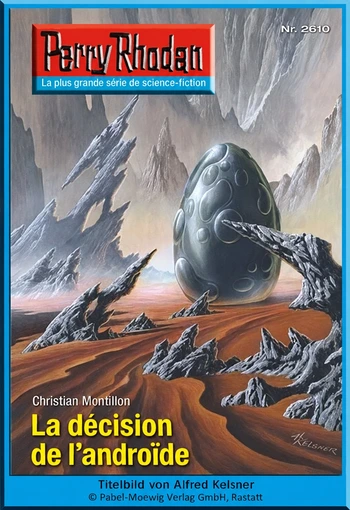
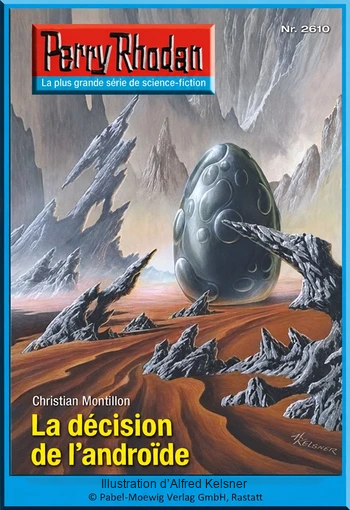
fix: translate illustrator credits on covers 2610-2619

Changed region(s): [[0.2857, 0.9412, 0.7429, 0.9706]]

diff --git a/src/content/chapitres/de-2610.md b/src/content/chapitres/de-2610.md
@@ -4,7 +4,7 @@ cycleNumber: 37
 chapterNumber: 2610
 type: translation
 originalTitle: "Die Entscheidung des Androiden"
-cover: "/images/covers/de-2610.webp?v=20261116-2610-fr"
+cover: "/images/covers/de-2610.webp?v=20261118-credits-fr"
 auteur: "Christian Montillon"
 parution: "2011-09-09"
 statut: traduit

diff --git a/src/content/chapitres/de-2613.md b/src/content/chapitres/de-2613.md
@@ -4,7 +4,7 @@ cycleNumber: 37
 chapterNumber: 2613
 type: translation
 originalTitle: "Agent der Superintelligenz"
-cover: "/images/covers/de-2613.webp?v=20261116-2613-fr"
+cover: "/images/covers/de-2613.webp?v=20261118-credits-fr"
 auteur: "Michael Marcus Thurner"
 parution: "2011-09-30"
 statut: traduit

diff --git a/src/content/chapitres/de-2618.md b/src/content/chapitres/de-2618.md
@@ -4,7 +4,7 @@ cycleNumber: 37
 chapterNumber: 2618
 type: translation
 originalTitle: "Flucht von der Brückenwelt"
-cover: "/images/covers/de-2618.webp?v=20261116-2618-fr"
+cover: "/images/covers/de-2618.webp?v=20261118-credits-fr"
 auteur: "Verena Themsen"
 parution: "2011-11-04"
 statut: traduit

diff --git a/src/content/chapitres/de-2617.md b/src/content/chapitres/de-2617.md
@@ -4,7 +4,7 @@ cycleNumber: 37
 chapterNumber: 2617
 type: translation
 originalTitle: "Der dunkelste aller Tage"
-cover: "/images/covers/de-2617.webp?v=20261116-2617-fr"
+cover: "/images/covers/de-2617.webp?v=20261118-credits-fr"
 auteur: "Hubert Haensel"
 parution: "2011-10-28"
 statut: traduit

diff --git a/src/content/chapitres/de-2612.md b/src/content/chapitres/de-2612.md
@@ -4,7 +4,7 @@ cycleNumber: 37
 chapterNumber: 2612
 type: translation
 originalTitle: "Zielpunkt BASIS"
-cover: "/images/covers/de-2612.webp?v=20261116-2612-fr"
+cover: "/images/covers/de-2612.webp?v=20261118-credits-fr"
 auteur: "Michael Marcus Thurner"
 parution: "2011-09-23"
 statut: traduit

diff --git a/src/content/chapitres/de-2614.md b/src/content/chapitres/de-2614.md
@@ -4,7 +4,7 @@ cycleNumber: 37
 chapterNumber: 2614
 type: translation
 originalTitle: "Navigator Quistus"
-cover: "/images/covers/de-2614.webp?v=20261116-2614-fr"
+cover: "/images/covers/de-2614.webp?v=20261118-credits-fr"
 auteur: "Christian Montillon"
 parution: "2011-10-07"
 statut: traduit

diff --git a/src/content/chapitres/de-2619.md b/src/content/chapitres/de-2619.md
@@ -4,7 +4,7 @@ cycleNumber: 37
 chapterNumber: 2619
 type: translation
 originalTitle: "Planet der Formatierer"
-cover: "/images/covers/de-2619.webp?v=20261116-2619-fr"
+cover: "/images/covers/de-2619.webp?v=20261118-credits-fr"
 auteur: "Wim Vandemaan"
 parution: "2011-11-11"
 statut: traduit

diff --git a/src/content/chapitres/de-2615.md b/src/content/chapitres/de-2615.md
@@ -4,7 +4,7 @@ cycleNumber: 37
 chapterNumber: 2615
 type: translation
 originalTitle: "Todesjagd auf Rhodan"
-cover: "/images/covers/de-2615.webp?v=20261116-2615-fr"
+cover: "/images/covers/de-2615.webp?v=20261118-credits-fr"
 auteur: "Markus Heitz"
 parution: "2011-10-14"
 statut: traduit

diff --git a/src/content/chapitres/de-2611.md b/src/content/chapitres/de-2611.md
@@ -4,7 +4,7 @@ cycleNumber: 37
 chapterNumber: 2611
 type: translation
 originalTitle: "Gegen den Irrsinn"
-cover: "/images/covers/de-2611.webp?v=20261116-2611-fr"
+cover: "/images/covers/de-2611.webp?v=20261118-credits-fr"
 auteur: "Marc A. Herren"
 parution: "2011-09-16"
 statut: traduit

diff --git a/src/content/chapitres/de-2616.md b/src/content/chapitres/de-2616.md
@@ -4,7 +4,7 @@ cycleNumber: 37
 chapterNumber: 2616
 type: translation
 originalTitle: "Countdown für Sol"
-cover: "/images/covers/de-2616.webp?v=20261116-2616-fr"
+cover: "/images/covers/de-2616.webp?v=20261118-credits-fr"
 auteur: "Arndt Ellmer"
 parution: "2011-10-21"
 statut: traduit
